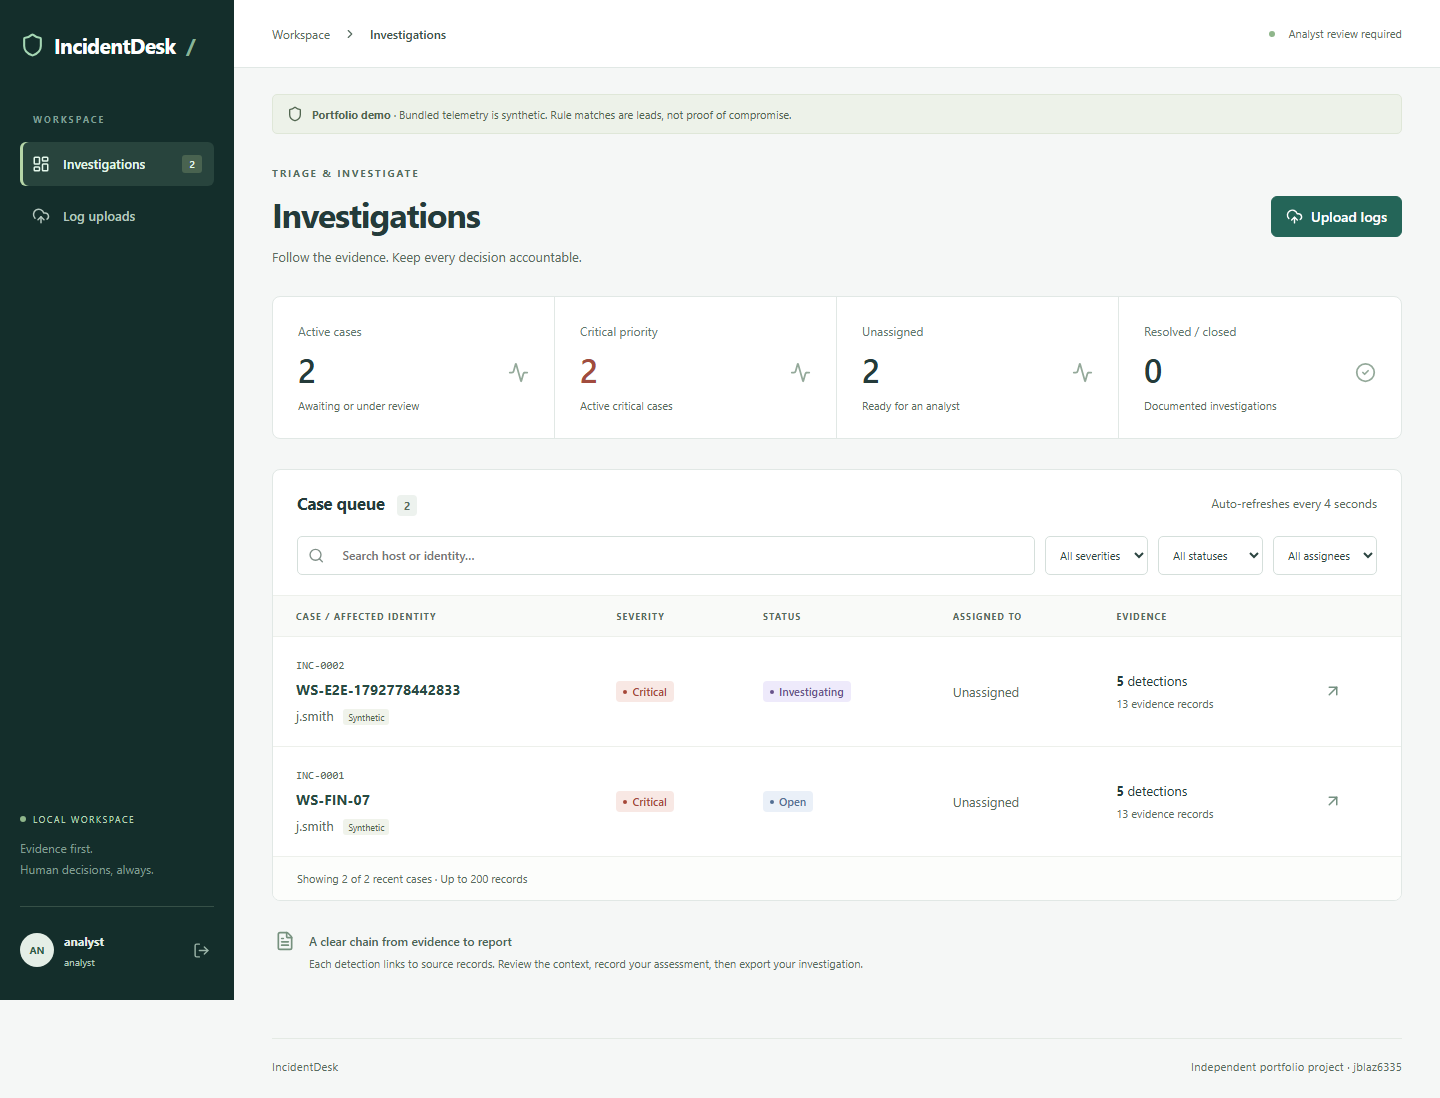
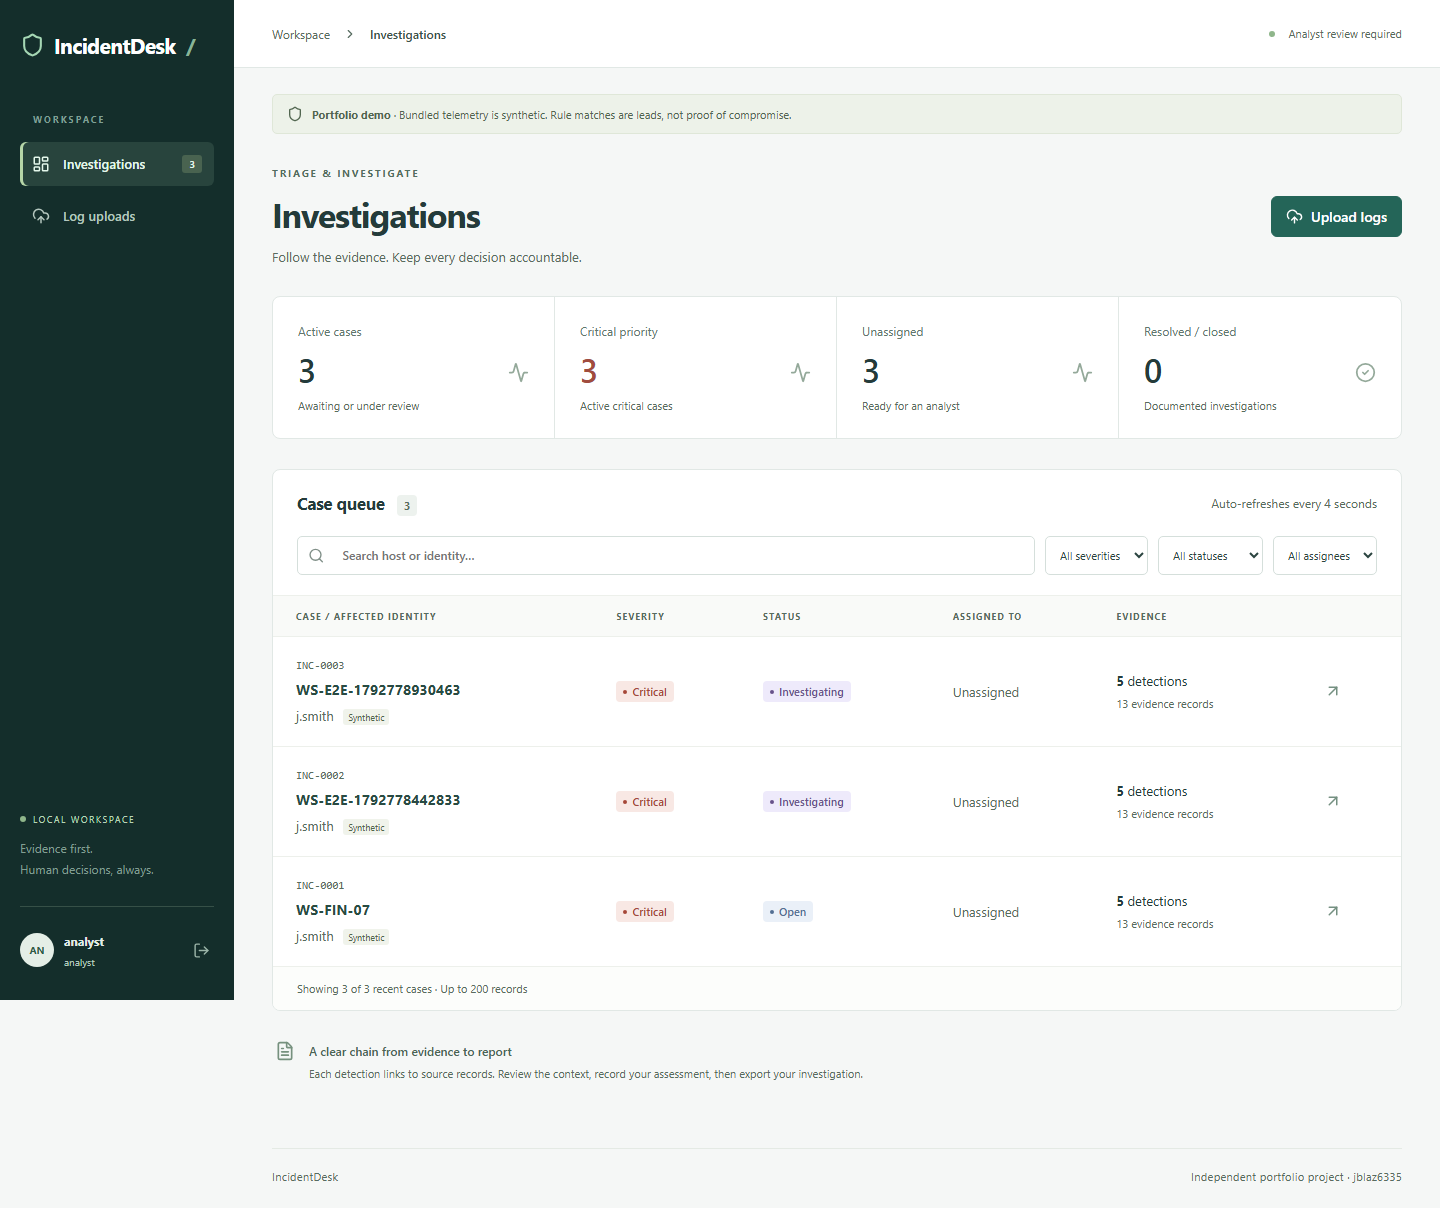
Patch test dependency and use the CI runner browser

diff --git a/frontend/playwright.config.ts b/frontend/playwright.config.ts
@@ -6,6 +6,7 @@ export default defineConfig({
   use: {
     baseURL: process.env.BASE_URL || "http://localhost:5173",
     browserName: "chromium",
+    channel: process.env.PLAYWRIGHT_CHANNEL || undefined,
     trace: "retain-on-failure",
   },
   reporter: "list",
